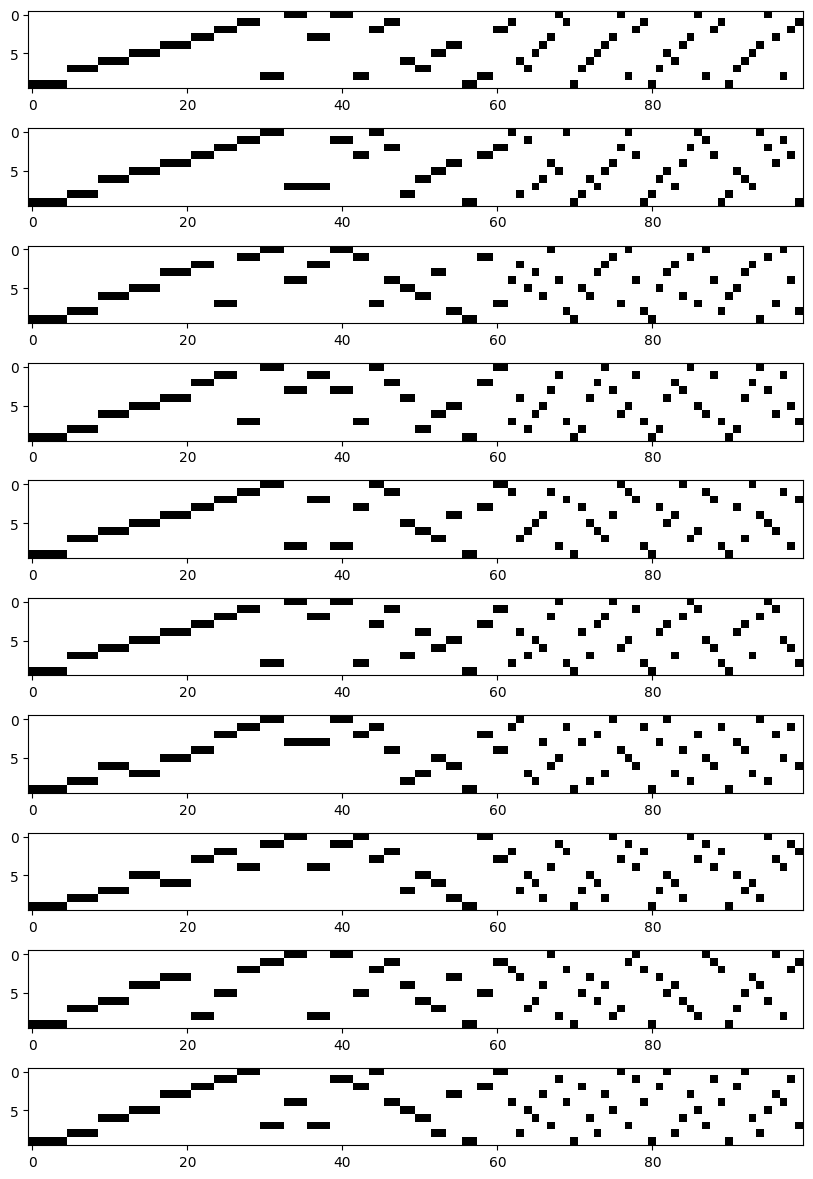
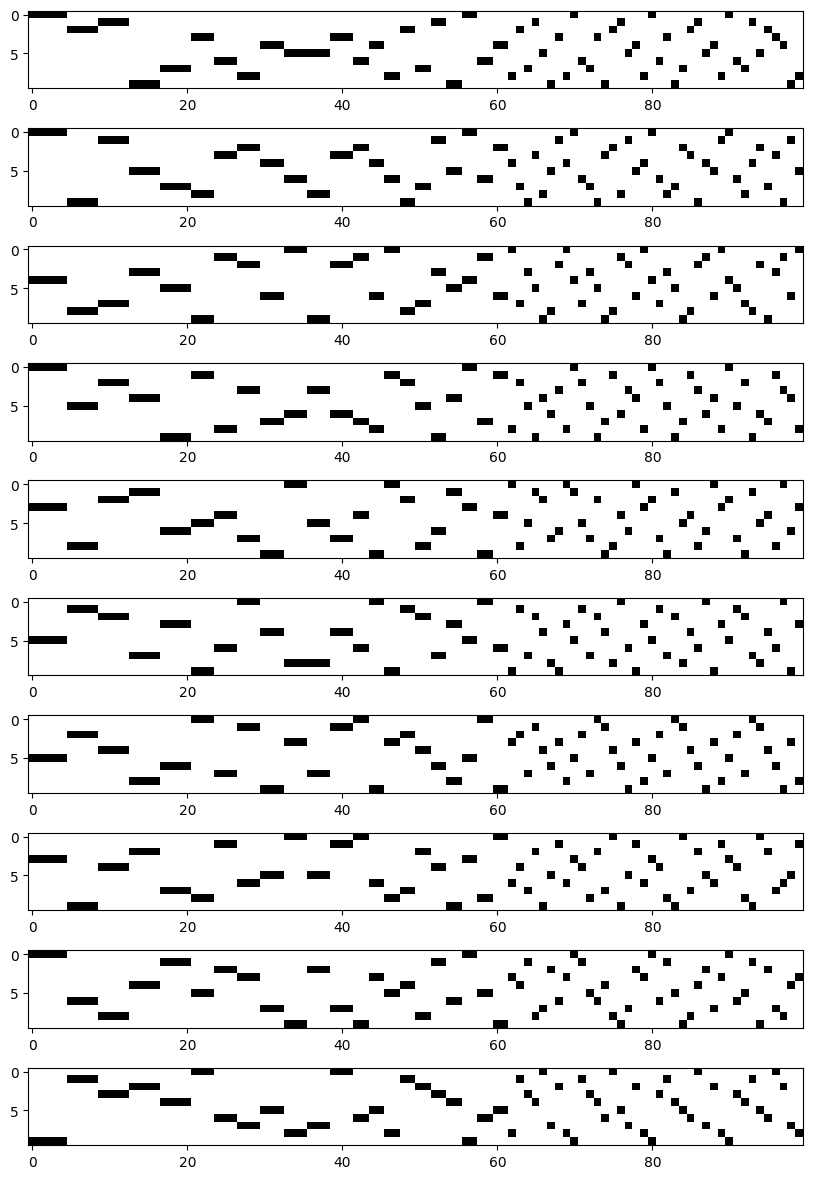
use thread index instead of thread_id

diff --git a/include/util.h b/include/util.h
@@ -1,0 +1,47 @@
+#pragma once
+
+#include <string>
+
+#define STR_(x) #x
+#define STR(x) STR_(x)
+
+inline std::string GetParallelMode() {
+#ifdef SERIAL
+  return "SERIAL";
+#endif
+#ifdef TBB_MODE
+  return STR(TBB_MODE);
+#endif
+#ifdef OMP_MODE
+  return STR(OMP_MODE);
+#endif
+}
+
+#ifdef TBB_MODE
+#include "oneapi/tbb/blocked_range.h"
+#include <tbb/parallel_for.h>
+#endif
+#ifdef OMP_MODE
+#include <omp.h>
+#endif
+#include <cstddef>
+#include <thread>
+
+inline int GetNumThreads() {
+#ifdef TBB_MODE
+  return ::tbb::info::
+      default_concurrency(); // tbb::this_task_arena::max_concurrency();
+#endif
+#ifdef OMP_MODE
+  return omp_get_max_threads();
+#endif
+}
+
+inline int GetThreadIndex() {
+#ifdef TBB_MODE
+  return tbb::this_task_arena::current_thread_index();
+#endif
+#ifdef OMP_MODE
+  return omp_get_thread_num();
+#endif
+}

diff --git a/include/parallel_for.h b/include/parallel_for.h
@@ -1,41 +1,6 @@
 #pragma once
 
-#include <string>
-
-#define STR_(x) #x
-#define STR(x) STR_(x)
-
-inline std::string GetParallelMode() {
-#ifdef SERIAL
-  return "SERIAL";
-#endif
-#ifdef TBB_MODE
-  return STR(TBB_MODE);
-#endif
-#ifdef OMP_MODE
-  return STR(OMP_MODE);
-#endif
-}
-
-#ifdef TBB_MODE
-#include "oneapi/tbb/blocked_range.h"
-#include <tbb/parallel_for.h>
-#endif
-#ifdef OMP_MODE
-#include <omp.h>
-#endif
-#include <cstddef>
-#include <thread>
-
-inline int GetNumThreads() {
-#ifdef TBB_MODE
-  return ::tbb::info::
-      default_concurrency(); // tbb::this_task_arena::max_concurrency();
-#endif
-#ifdef OMP_MODE
-  return omp_get_max_threads();
-#endif
-}
+#include "util.h"
 
 #define OMP_STATIC 1
 #define OMP_DYNAMIC_MONOTONIC 2

diff --git a/include/thread_logger.h b/include/thread_logger.h
@@ -1,25 +1,27 @@
 #pragma once
 #include "spin_lock.h"
+#include "util.h"
 #include <mutex>
 #include <thread>
 #include <vector>
 
 class ThreadLogger {
 public:
-  using ThreadId = std::thread::id;
+  using ThreadId = int;
+
   ThreadLogger(size_t size) : ids(size) {}
 
   void Log(size_t taskNum) {
     std::lock_guard<SpinLock> guard{lock};
-    ids[taskNum] = std::this_thread::get_id();
+    ids[taskNum] = GetThreadIndex();
   }
 
-  std::vector<ThreadId> GetIds() {
+  std::vector<int> GetIds() {
     std::lock_guard<SpinLock> guard{lock};
     return ids;
   }
 
 private:
   SpinLock lock;
-  std::vector<ThreadId> ids;
+  std::vector<int> ids;
 };

diff --git a/benchplot.py b/benchplot.py
@@ -101,7 +101,7 @@ def plot_scheduling_dist(scheduling_dist):
         task_count = max(max(tasks) for tasks in scheduling_dist[i].values()) + 1
         data = np.ones((thread_count, task_count))
         total = 0
-        for _, tasks in scheduling_dist[i].items():
+        for _, tasks in sorted(scheduling_dist[i].items(), key=lambda x: x[0]):
             for task_idx in tasks:
                 data[total, task_idx] = 0
             total += 1
